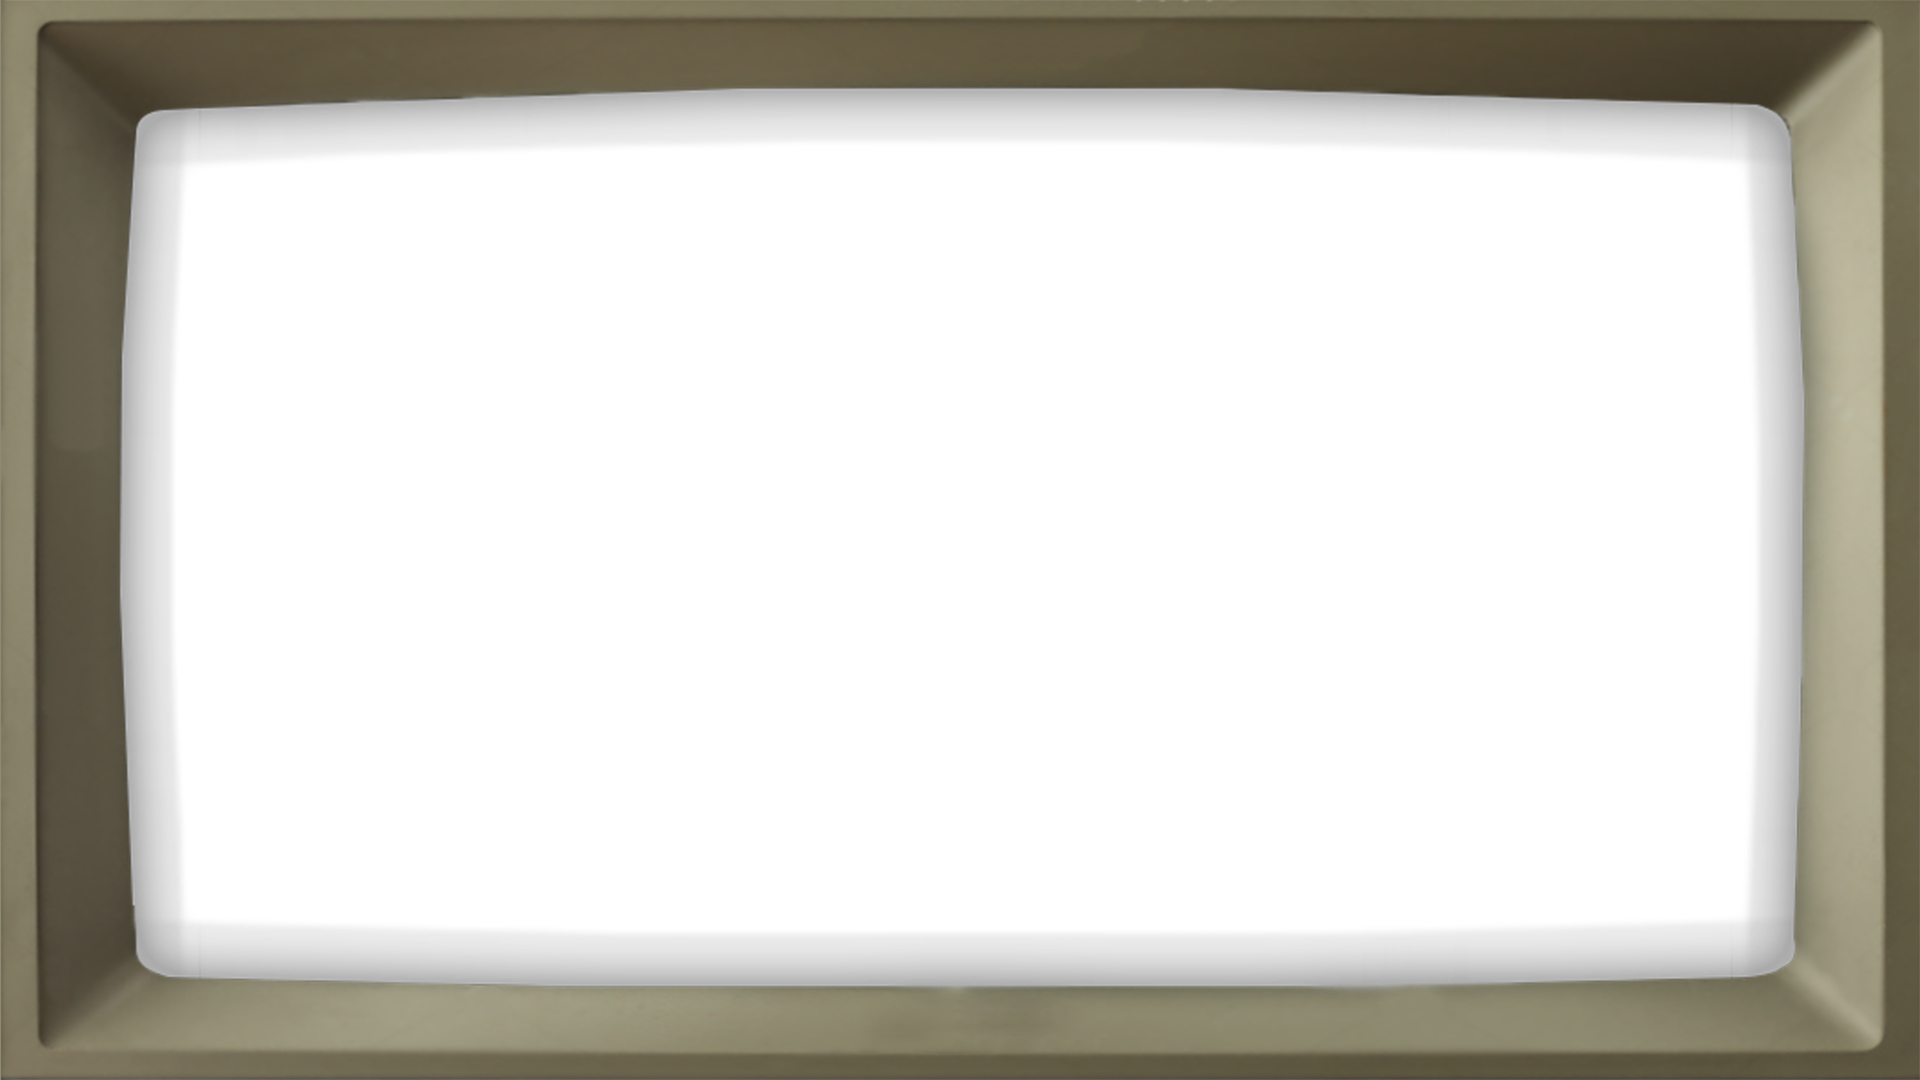
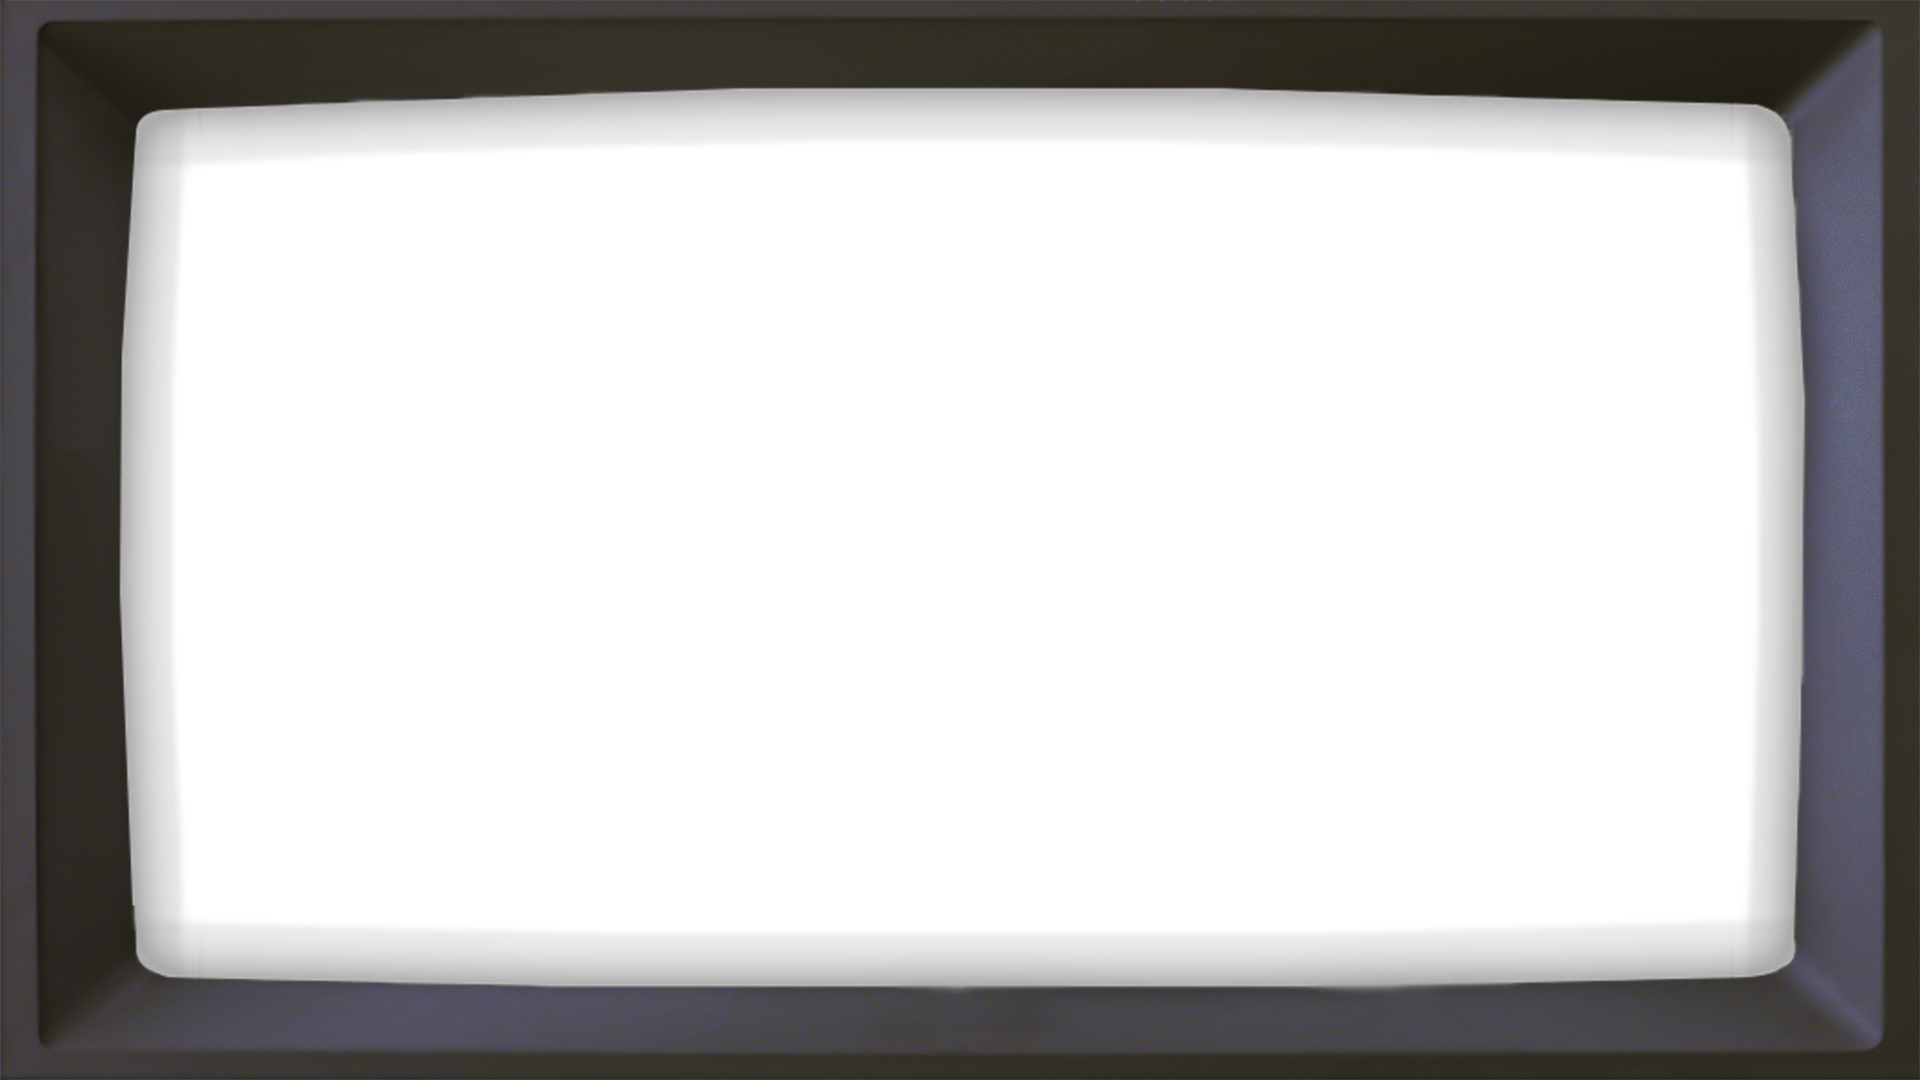
Added new tv frame and made optimizations for mobile

Changed region(s): [[0.0, 0.0, 1.0, 1.0]]

diff --git a/src/style.css b/src/style.css
@@ -1276,3 +1276,297 @@ transform:none;
     letter-spacing:.1rem;
 
 }
+
+
+@media (max-width: 768px) {
+
+    .desktop {
+
+        padding-top: 1rem;
+
+        gap: .5rem;
+
+        width: 80%;
+
+        max-width: 95vw;
+
+        padding: 8px;
+    }
+
+
+    .desktop-category {
+
+
+        gap: .25rem;
+
+        margin: .5rem 0;
+
+        padding-top: .5rem;
+
+    }
+
+
+    .desktop-category {
+        margin-bottom: 10px;
+    }
+
+    .desktop-category-label {
+        margin-bottom: 4px;
+        font-size: 0.75rem;
+    }
+
+    .desktop-tile {
+        gap: 4px;
+        margin-bottom: 5px;
+        padding: .25rem;
+
+    }
+
+    .tile-icon {
+        margin-bottom: 10px;
+        font-size: 20px;
+    }
+
+
+    .tile-name {
+        font-size: 9px;
+        letter-spacing: .05rem;
+    }
+
+
+    .tile-name {
+        font-size: 10px;
+        line-height: 1.1;
+    }
+
+}
+
+
+/* =====================
+   MOBILE PROJECT WINDOWS
+===================== */
+
+@media (max-width:768px) {
+
+    .project-window {
+
+        position:absolute;
+
+        inset:0;
+
+        padding:3vw;
+
+        box-sizing:border-box;
+
+        overflow:hidden;
+
+    }
+
+
+
+
+    .project-window-panel {
+
+        width:70%;
+
+        max-width:none;
+
+        height: 70%;
+
+        max-height:none;
+
+        box-sizing:border-box;
+
+    }
+
+
+    .project-window.visible .project-window-panel {
+        transform:scale(1);
+    }
+
+
+    /* HEADER */
+
+    .project-window-header {
+
+        padding:.35rem .5rem;
+
+        gap:.5rem;
+
+        min-height:2.5rem;
+
+    }
+
+
+    .project-window-title {
+
+        font-size:.8rem;
+
+        letter-spacing:.15rem;
+
+        overflow:hidden;
+
+        text-overflow:ellipsis;
+
+        white-space:nowrap;
+
+    }
+
+
+    .project-window-close {
+
+        width:2rem;
+
+        height:2rem;
+
+        flex-shrink:0;
+
+    }
+
+
+    .project-window-close-icon {
+
+        width:30px;
+
+        height:30px;
+
+    }
+
+
+
+    /* TECHSTACK AREA */
+
+    .project-window-meta {
+
+        padding:.4rem .5rem;
+
+        gap:.35rem;
+
+    }
+
+
+    .project-window-label {
+
+        font-size:.65rem;
+
+        letter-spacing:.15rem;
+
+    }
+
+
+    .project-techstack {
+
+        gap:.3rem;
+
+    }
+
+
+    .tech-item {
+
+        padding:.25rem .4rem;
+
+        font-size:.65rem;
+
+    }
+
+
+
+    /* CONTENT */
+
+    .project-window-content {
+
+        padding:.5rem;
+
+        font-size:.75rem;
+
+        line-height:1.45;
+
+        max-height:55vh;
+
+    }
+
+
+    .project-window-content h1 {
+
+        font-size:1.05rem;
+
+    }
+
+
+    .project-window-content h2 {
+
+        font-size:.95rem;
+
+    }
+
+
+    .project-window-content h3 {
+
+        font-size:.85rem;
+
+    }
+
+
+    .project-window-content code {
+
+        padding:.5rem;
+
+        font-size:.65rem;
+
+        overflow-x:auto;
+
+    }
+
+
+    /* FOOTER */
+
+    .project-window-footer {
+
+        padding:.4rem .5rem;
+
+    }
+
+
+    .toggle-inline {
+
+        font-size:.75rem;
+
+        gap:.35rem;
+
+    }
+
+
+    .toggle-switch {
+
+        width:40px;
+
+        height:20px;
+
+    }
+
+
+    .toggle-knob {
+
+        width:14px;
+
+        height:14px;
+
+    }
+
+
+    .toggle-inline input:checked 
+    + .toggle-switch .toggle-knob {
+
+        transform:translateX(18px);
+
+    }
+
+
+    /* SCROLLBAR */
+
+    .project-window-content::-webkit-scrollbar {
+        width:8px;
+    }
+
+
+}